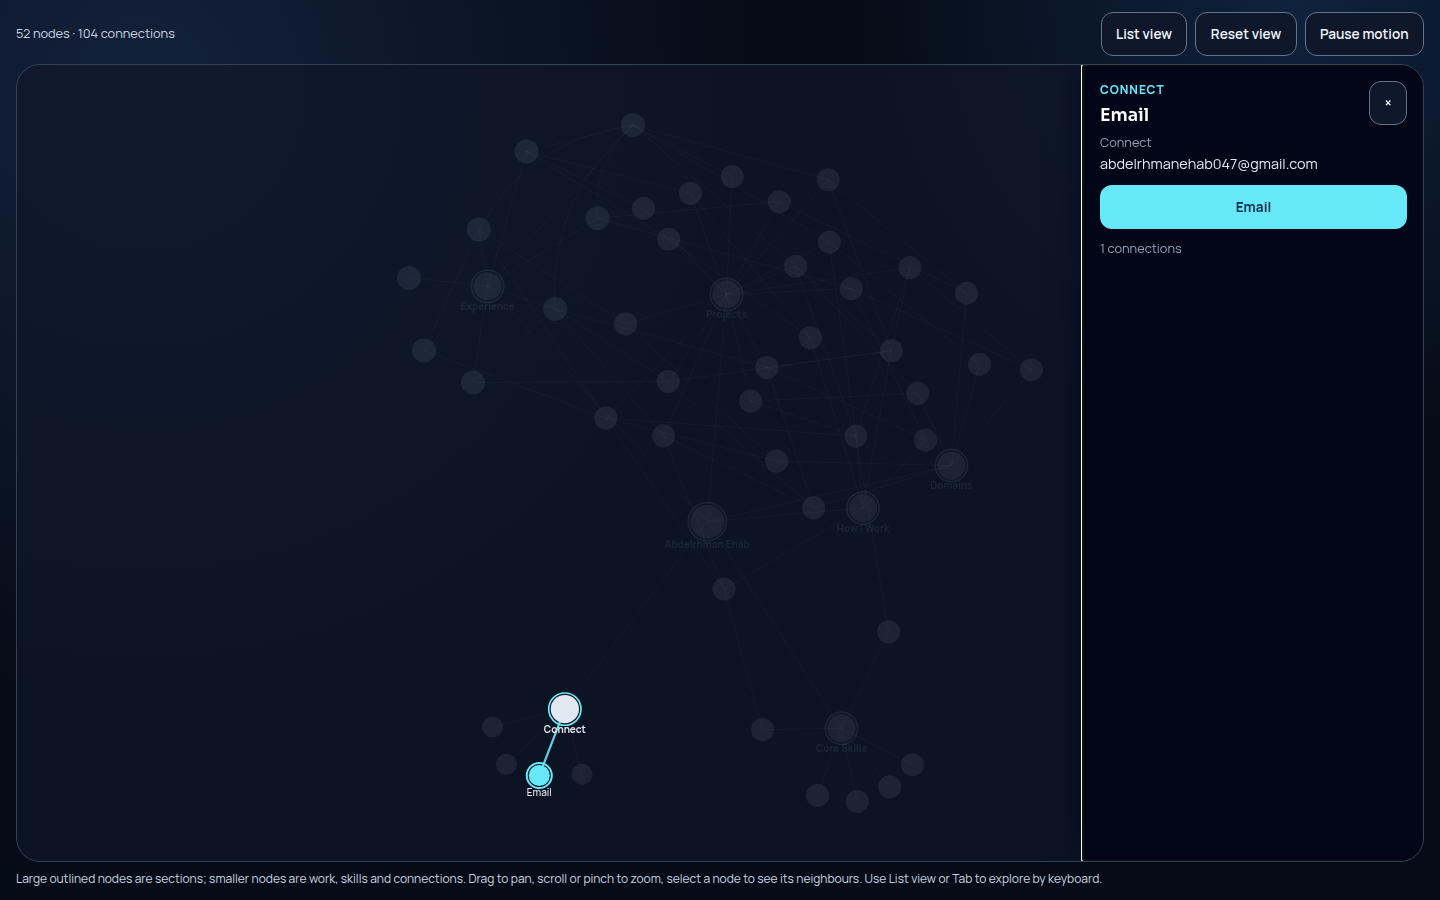
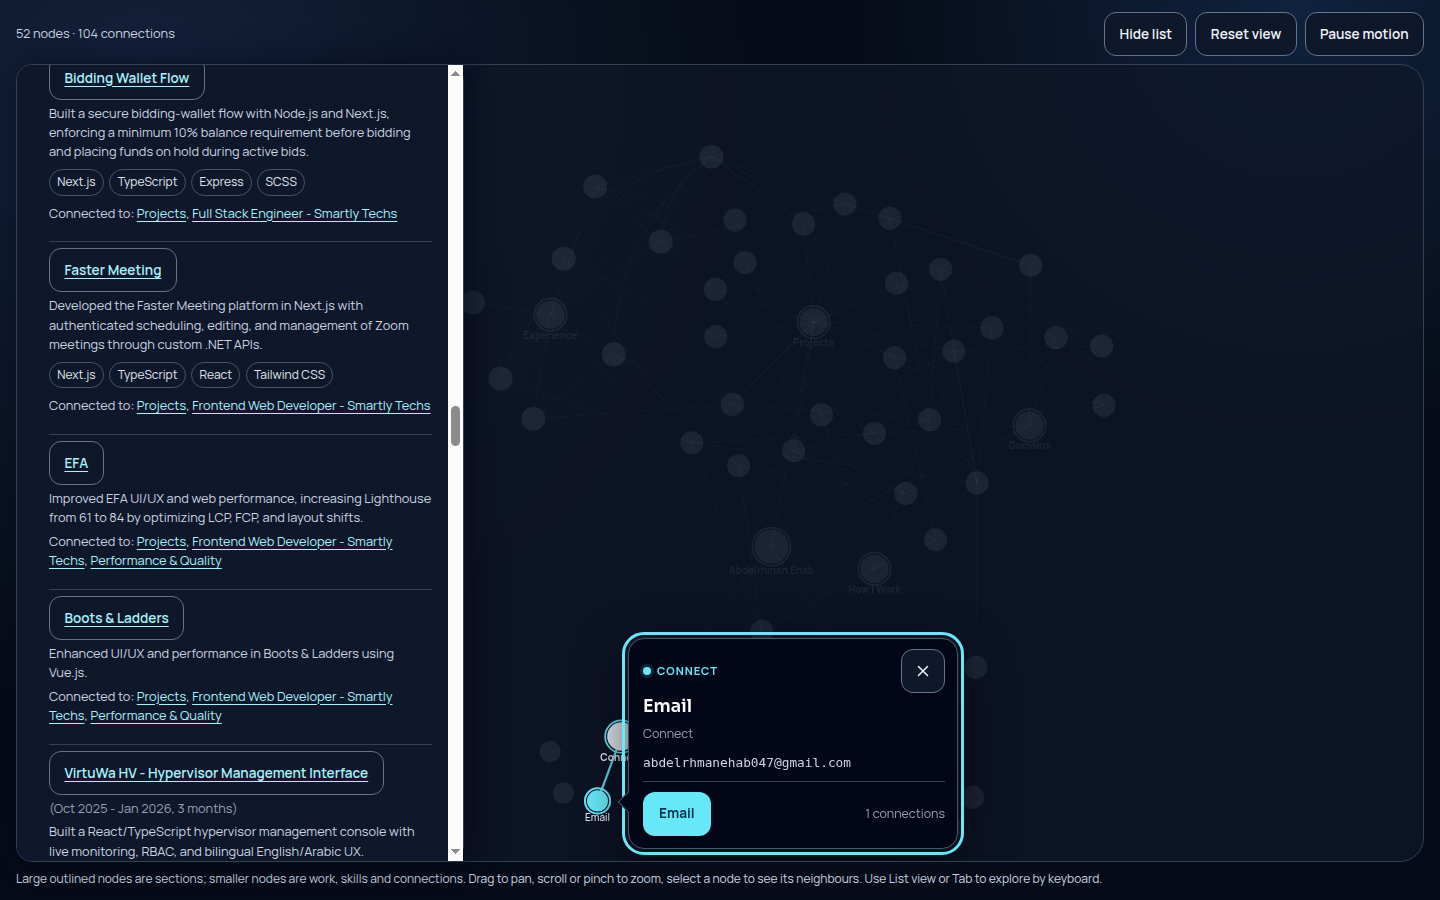
feat: show node details as a callout anchored to the selected node
Replace the right dock / bottom sheet with a floating card pinned beside
the selected node, as picked from the node-panel prototypes (idea 01):

- The card sits to the right of the node, flips left near the edge and
  drops below/above when neither side fits. On phones it sits full-width
  below the node, or above it near the bottom of the stage. It is clamped
  to the stage, and an arrow points at the node; the arrow hides when the
  node is off the stage.
- It is re-placed every rendered frame (onRenderFramePost), so it follows
  its node through simulation ticks, zoom and pan. Positions round to whole
  pixels, and layout is skipped when nothing moved.
- Long nodes are clamped behind Read more / Show less (aria-expanded). The
  footer carries the node's link, or Copy link to #node/<id>, plus the
  connection count.
- Skill summaries no longer repeat their tags, Connect addresses read as a
  muted monospace line, and group labels are singular.
- Dialog semantics, focus on open, Escape/close focus restore, hash sync,
  reduced motion and the static list-index fallback are kept.

Unit and live checks cover placement, following after pan and zoom (the
arrow's target pixel is the selected node's fill), Read more, and the card
staying inside the stage at desktop and 390px. The graph-only verification
doc has fresh desktop and phone screenshots.

diff --git a/src/hero-graph.js b/src/hero-graph.js
@@ -20,6 +20,46 @@ export function nodeLinkHTML(node, className) {
   return `<a class="${className}" href="${escapeHTML(node.href)}"${attributes}>${escapeHTML(node.linkLabel || "Open link")}</a>`;
 }
 
+// The details panel is a callout card: its group label names one node, not the section.
+const groupNames = { root: "Profile", hub: "Section", role: "Experience", project: "Project", skill: "Skill set", domain: "Domain", craft: "Practice", link: "Connect" };
+const facts = (meta) => (meta || "").replace(/^\(|\)$/g, "").split(/\s\|\s|\s·\s|,\s(?=\d+ months)/).map((fact) => fact.trim()).filter(Boolean);
+const clamp = (value, min, max) => Math.max(min, Math.min(max, value));
+const CALLOUT_GAP = 30;
+const CALLOUT_MARGIN = 12;
+
+// Places the callout beside the node (right, else left) when it fits on a wide stage,
+// otherwise below or above it; phones always use the vertical placement. Returns stage
+// pixels, and a null arrow when the node itself is off the stage.
+export function placeCallout({ x, y, width, height, cardWidth, cardHeight, mobile }) {
+  const onStage = x >= 0 && x <= width && y >= 0 && y <= height;
+  const ax = clamp(x, 0, width);
+  const ay = clamp(y, 0, height);
+  if (!mobile) {
+    const right = ax + CALLOUT_GAP + cardWidth <= width - CALLOUT_MARGIN;
+    const left = ax - CALLOUT_GAP - cardWidth >= CALLOUT_MARGIN;
+    if (right || left) {
+      const maxHeight = height - 2 * CALLOUT_MARGIN;
+      const shown = Math.min(cardHeight, maxHeight);
+      const top = clamp(ay - 60, CALLOUT_MARGIN, height - shown - CALLOUT_MARGIN);
+      return {
+        side: right ? "right" : "left", left: Math.round(right ? ax + CALLOUT_GAP : ax - CALLOUT_GAP - cardWidth),
+        top: Math.round(top), maxHeight: Math.round(maxHeight), arrow: onStage ? Math.round(clamp(ay - top, 18, shown - 18)) : null,
+      };
+    }
+  }
+  const below = height - ay - CALLOUT_GAP - CALLOUT_MARGIN;
+  const above = ay - CALLOUT_GAP - CALLOUT_MARGIN;
+  const down = below >= Math.min(cardHeight, 220) || below >= above;
+  const maxHeight = Math.max(down ? below : above, 120);
+  const shown = Math.min(cardHeight, maxHeight);
+  const left = mobile ? CALLOUT_MARGIN : clamp(ax - cardWidth / 2, CALLOUT_MARGIN, width - cardWidth - CALLOUT_MARGIN);
+  const top = clamp(down ? ay + CALLOUT_GAP : ay - CALLOUT_GAP - shown, CALLOUT_MARGIN, height - shown - CALLOUT_MARGIN);
+  return {
+    side: down ? "below" : "above", left: Math.round(left), top: Math.round(top), maxHeight: Math.round(maxHeight),
+    arrow: onStage ? Math.round(clamp(ax - left, 18, cardWidth - 18)) : null,
+  };
+}
+
 export function initHeroGraph() {
   const stage = document.querySelector("#graph-stage");
   if (!stage) return;
@@ -37,6 +77,8 @@ export function initHeroGraph() {
   let hovered = null;
   let selected = null;
   let lastFocus = null;
+  let placed = "";
+  let panelVersion = 0;
   let press = null;
   let moved = false;
   let ticks = 0;
@@ -85,6 +127,32 @@ export function initHeroGraph() {
     return null;
   }
 
+  // Runs every rendered frame, so the card follows its node through ticks, pan and zoom;
+  // the key skips layout work when nothing moved by a whole pixel.
+  function positionPanel() {
+    if (!graph || !selected || panel.hidden || stage.hidden) return;
+    const node = graph.graphData().nodes.find((entry) => entry.id === selected);
+    if (!node || !Number.isFinite(node.x) || !Number.isFinite(node.y)) return;
+    const screen = graph.graph2ScreenCoords(node.x, node.y);
+    const scroll = panel.querySelector(".graph-panel-scroll");
+    const key = [Math.round(screen.x), Math.round(screen.y), stage.clientWidth, stage.clientHeight, mobile.matches, panelVersion].join();
+    if (key === placed) return;
+    placed = key;
+    const spot = placeCallout({
+      x: screen.x, y: screen.y, width: stage.clientWidth, height: stage.clientHeight,
+      cardWidth: panel.offsetWidth || 330, cardHeight: (scroll.scrollHeight || 0) + 2, mobile: mobile.matches,
+    });
+    panel.dataset.side = spot.side;
+    panel.style.left = `${spot.left}px`;
+    panel.style.top = `${spot.top}px`;
+    scroll.style.maxHeight = `${spot.maxHeight}px`;
+    const arrow = panel.querySelector(".graph-panel-arrow");
+    arrow.hidden = spot.arrow === null;
+    const vertical = spot.side === "below" || spot.side === "above";
+    arrow.style.top = vertical || spot.arrow === null ? "" : `${spot.arrow}px`;
+    arrow.style.left = !vertical || spot.arrow === null ? "" : `${spot.arrow}px`;
+  }
+
   function closePanel({ restoreFocus = true } = {}) {
     if (panel.hidden) return;
     panel.hidden = true;
@@ -100,20 +168,51 @@ export function initHeroGraph() {
     lastFocus = origin || document.activeElement;
     hovered = null;
     selected = id;
-    const group = graphGroups[node.group].label;
     const link = nodeLinkHTML(node, "graph-action");
-    const notice = projectNotices[id] ? `<p class="graph-meta">${escapeHTML(projectNotices[id])}</p>` : "";
-    panel.innerHTML = `<div class="graph-panel-heading"><div><p class="graph-group-name">${escapeHTML(group)}</p>
+    const notice = projectNotices[id] ? `<p class="graph-notice">${escapeHTML(projectNotices[id])}</p>` : "";
+    const detail = facts(node.meta);
+    // Skill summaries repeat their tags; a Connect node's address reads as a muted line.
+    const text = node.tags?.length && node.summary === node.tags.join(" · ") ? "" : node.summary || "";
+    const address = node.group === "link" && /^(https?:\/\/\S+|\S+@\S+)$/.test(text);
+    const summary = !text ? "" : `<p class="${address ? "graph-url" : "graph-summary"}">${escapeHTML(text)}</p>`;
+    // The clamp is for the floating card; the list-index fallback shows everything.
+    const long = !stage.hidden && (text.length > 150 || node.bullets?.length > 0 || node.tags?.length > 4);
+    panel.innerHTML = `<span class="graph-panel-arrow" aria-hidden="true"></span><div class="graph-panel-scroll">
+      <div class="graph-panel-heading"><p class="graph-group-name">${escapeHTML(groupNames[node.group] || graphGroups[node.group].label)}</p>
+      <button type="button" id="graph-panel-close" aria-label="Close node details"><svg viewBox="0 0 24 24" aria-hidden="true"><path d="M6 6l12 12M18 6 6 18"/></svg></button></div>
       <h2 id="graph-panel-title">${escapeHTML(node.title)}</h2>
-      ${node.meta ? `<p class="graph-meta">${escapeHTML(node.meta)}</p>` : ""}</div>
-      <button type="button" id="graph-panel-close" aria-label="Close node details">&times;</button></div>
-      <p class="graph-summary">${escapeHTML(node.summary)}</p>${notice}
+      ${detail.length ? `<ul class="graph-facts">${detail.map((fact) => `<li>${escapeHTML(fact)}</li>`).join("")}</ul>` : ""}
+      <div class="graph-body${long ? " is-clamped" : ""}" id="graph-panel-body">${summary}${notice}
       ${node.bullets?.length ? `<ul class="graph-bullets">${node.bullets.map((item) => `<li>${escapeHTML(item)}</li>`).join("")}</ul>` : ""}
-      ${node.tags?.length ? `<div class="graph-tags">${node.tags.map((tag) => `<span>${escapeHTML(tag)}</span>`).join("")}</div>` : ""}
-      ${link}<p class="graph-meta">${adjacency.get(id)?.size || 0} connections</p>`;
+      ${node.tags?.length ? `<div class="graph-tags">${node.tags.map((tag) => `<span>${escapeHTML(tag)}</span>`).join("")}</div>` : ""}</div>
+      ${long ? `<button type="button" id="graph-panel-more" class="graph-more" aria-expanded="false" aria-controls="graph-panel-body">Read more</button>` : ""}
+      <div class="graph-panel-foot">${link || '<button type="button" id="graph-panel-copy" class="graph-copy">Copy link</button>'}
+      <p class="graph-meta">${adjacency.get(id)?.size || 0} connections</p></div></div>`;
     panel.hidden = false;
+    delete panel.dataset.side;
     panel.querySelector("#graph-panel-close").addEventListener("click", () => closePanel());
-    panel.focus();
+    if (long) {
+      const more = panel.querySelector("#graph-panel-more");
+      more.addEventListener("click", () => {
+        const open = more.getAttribute("aria-expanded") !== "true";
+        panel.querySelector("#graph-panel-body").classList.toggle("is-clamped", !open);
+        more.setAttribute("aria-expanded", String(open));
+        more.textContent = open ? "Show less" : "Read more";
+        panelVersion++;
+        positionPanel();
+      });
+    }
+    if (!link) {
+      const copy = panel.querySelector("#graph-panel-copy");
+      copy.addEventListener("click", () => {
+        const done = (text) => { copy.textContent = text; setTimeout(() => { copy.textContent = "Copy link"; }, 1600); };
+        const url = `${location.origin}${location.pathname}#node/${id}`;
+        (navigator.clipboard ? navigator.clipboard.writeText(url) : Promise.reject()).then(() => done("Link copied"), () => done("Copy failed"));
+      });
+    }
+    panelVersion++;
+    positionPanel();
+    panel.focus({ preventScroll: true });
     repaint();
     history.replaceState(null, "", `#node/${id}`);
   }
@@ -230,6 +329,7 @@ export function initHeroGraph() {
       .onBackgroundClick(() => {
         if (motionButton.getAttribute("aria-pressed") !== "true") closePanel();
       })
+      .onRenderFramePost(() => positionPanel())
       .onEngineTick(() => { if (!moved && ++ticks % 12 === 0) fit(0); })
       .onEngineStop(() => { if (!moved) fit(reduced ? 0 : 400); });
 

diff --git a/src/hero-graph.css b/src/hero-graph.css
@@ -43,22 +43,52 @@ html.graph-js #graph-index-wrap.graph-index-hidden:focus-within { position: stat
 #graph-index-wrap .graph-index-connections { font-size: .8rem; }
 #graph-index-wrap .graph-index-connections a, #graph-index-wrap .graph-index-link { color: #a5f3fc; text-decoration: underline; text-underline-offset: 3px; }
 #graph-index-wrap .graph-index-link { display: inline-flex; min-height: 44px; align-items: center; font-size: .85rem; font-weight: 700; }
-#graph-panel { position: absolute; z-index: 20; inset: auto 0 0; max-height: 72%; overflow-y: auto; padding: 1rem; border-top: 1px solid #475569; background: #020617; color: #e2e8f0; box-shadow: 0 -8px 30px #02061799; }
-#graph-index-wrap #graph-panel { position: static; inset: auto; width: auto; max-height: none; margin: 1rem 0; border: 1px solid #475569; border-radius: .75rem; box-shadow: none; }
-#graph-panel h2 { color: #fff; font: 600 1.1rem/1.4 Sora, sans-serif; margin: .25rem 0; }
-.graph-panel-heading { display: flex; justify-content: space-between; align-items: start; gap: 1rem; }
-.graph-group-name { margin: 0; color: #67e8f9; font-size: .75rem; font-weight: 700; letter-spacing: .08em; text-transform: uppercase; }
-.graph-meta { color: #94a3b8; font-size: .8rem; line-height: 1.6; }
+/* The details panel is a callout card pinned to the selected node; hero-graph.js sets its
+   left/top, side and arrow every frame. In the list-index fallback it is a static card. */
+#graph-panel { position: absolute; z-index: 20; left: 12px; top: 12px; width: min(330px, calc(100% - 24px)); border: 1px solid #475569; border-radius: 16px; background: #020617; color: #e2e8f0; box-shadow: 0 18px 50px #000000aa, 0 0 0 1px rgba(103,232,249,.08); animation: graph-panel-in .2s cubic-bezier(.2,.8,.2,1); }
+@keyframes graph-panel-in { from { opacity: 0; transform: scale(.96); } }
+#graph-panel:focus { outline: none; }
+#graph-panel:focus-visible { outline: 3px solid #67e8f9; outline-offset: 3px; }
+.graph-panel-scroll { position: relative; overflow-y: auto; overscroll-behavior: contain; padding: 10px 12px 12px 14px; border-radius: 16px; scrollbar-width: thin; scrollbar-color: #475569 transparent; }
+.graph-panel-arrow { position: absolute; width: 16px; height: 16px; margin: -8px; background: #020617; border: 0 solid #475569; transform: rotate(45deg); }
+#graph-panel:not([data-side]) .graph-panel-arrow, .graph-panel-arrow[hidden] { display: none; }
+#graph-panel[data-side="right"] .graph-panel-arrow { left: 0; border-width: 0 0 1px 1px; }
+#graph-panel[data-side="left"] .graph-panel-arrow { left: 100%; border-width: 1px 1px 0 0; }
+#graph-panel[data-side="below"] .graph-panel-arrow { top: 0; border-width: 1px 0 0 1px; }
+#graph-panel[data-side="above"] .graph-panel-arrow { top: 100%; border-width: 0 1px 1px 0; }
+#graph-index-wrap #graph-panel { position: static; width: auto; margin: 1rem 0; border-radius: .75rem; box-shadow: none; animation: none; }
+#graph-index-wrap #graph-panel .graph-panel-scroll { max-height: none !important; overflow: visible; }
+#graph-index-wrap #graph-panel p { margin: 0; }
+#graph-index-wrap #graph-panel .graph-body > * + * { margin-top: 12px; }
+#graph-index-wrap #graph-panel .graph-copy { color: #f1f5f9; text-align: center; text-decoration: none; }
+#graph-panel h2 { color: #fff; font: 600 1.1rem/1.35 Sora, sans-serif; margin: 0; overflow-wrap: anywhere; }
+.graph-panel-heading { display: flex; justify-content: space-between; align-items: center; gap: 1rem; margin-bottom: 2px; }
+.graph-group-name { display: flex; align-items: center; gap: 6px; margin: 0; color: #67e8f9; font-size: .7rem; font-weight: 700; letter-spacing: .09em; text-transform: uppercase; }
+.graph-group-name::before { content: ""; width: 8px; height: 8px; border-radius: 50%; background: currentColor; box-shadow: 0 0 0 3px rgba(103,232,249,.14); }
+#graph-panel #graph-panel-close { display: inline-grid; place-items: center; width: 44px; padding: 0; }
+#graph-panel-close svg { width: 18px; height: 18px; fill: none; stroke: currentColor; stroke-width: 2; stroke-linecap: round; }
+.graph-facts { display: flex; flex-wrap: wrap; gap: 2px 6px; margin-top: 6px; }
+.graph-facts li { color: #94a3b8; font-size: .78rem; line-height: 1.5; }
+.graph-facts li:not(:last-child)::after { content: "·"; margin-left: 6px; color: #64748b; }
+.graph-meta { color: #94a3b8; font-size: .78rem; line-height: 1.6; }
+.graph-body { margin-top: 10px; }
+.graph-body > * + * { margin-top: 12px; }
+.graph-body.is-clamped { max-height: 7.4em; overflow: hidden; -webkit-mask-image: linear-gradient(#000 55%, transparent); mask-image: linear-gradient(#000 55%, transparent); }
 .graph-summary { font-size: .9rem; line-height: 1.6; }
-.graph-bullets { padding-left: 1.2rem; font-size: .82rem; line-height: 1.6; }
-.graph-bullets li { margin: .35rem 0; }
-.graph-tags { display: flex; flex-wrap: wrap; gap: .4rem; margin: 1rem 0; }
-.graph-tags span { border: 1px solid #475569; border-radius: 1rem; padding: .25rem .5rem; color: #e2e8f0; font-size: .75rem; }
-#graph-panel .graph-action { display: flex; min-height: 44px; align-items: center; justify-content: center; border-radius: .75rem; margin: .6rem 0; font-weight: 700; font-size: .85rem; }
+.graph-url { color: #cbd5e1; font: 500 .8rem/1.5 ui-monospace, SFMono-Regular, Menlo, monospace; overflow-wrap: anywhere; }
+.graph-notice { padding: 8px 10px; border: 1px dashed #475569; border-radius: 10px; color: #cbd5e1; font-size: .78rem; line-height: 1.5; }
+.graph-bullets { display: grid; gap: 8px; font-size: .84rem; line-height: 1.6; }
+.graph-bullets li { position: relative; padding-left: 16px; }
+.graph-bullets li::before { content: ""; position: absolute; left: 2px; top: .6em; width: 6px; height: 6px; border-radius: 2px; background: #67e8f9; opacity: .8; }
+.graph-tags { display: flex; flex-wrap: wrap; gap: .4rem; }
+.graph-tags span { border: 1px solid #475569; border-radius: 1rem; padding: .2rem .55rem; color: #e2e8f0; font-size: .75rem; line-height: 1.45; overflow-wrap: anywhere; }
+#graph-panel .graph-more { display: inline-flex; align-items: center; padding: 0 2px; border: 0; background: none; color: #a5f3fc; font-weight: 700; font-size: .82rem; text-decoration: underline; text-underline-offset: 3px; }
+#graph-panel .graph-more:hover { border: 0; background: none; color: #fff; }
+.graph-panel-foot { display: flex; flex-wrap: wrap; align-items: center; justify-content: space-between; gap: 8px 10px; margin-top: 8px; padding-top: 10px; border-top: 1px solid #334155; }
+#graph-panel .graph-action { display: inline-flex; min-height: 44px; align-items: center; justify-content: center; padding: 0 16px; border-radius: .75rem; font-weight: 700; font-size: .85rem; }
 .graph-action { background: #67e8f9; color: #082f49; }
 .graph-tooltip { font: 600 12px Manrope,sans-serif; color: #f8fafc; background: #020617; border: 1px solid #64748b; border-radius: 8px; padding: 6px 8px; max-width: 240px; }
-/* Beside a visible stage the list docks left, leaving the desktop detail panel (above it) on the right. */
+/* Beside a visible stage the list docks left; the detail callout floats above it beside its node. */
 @media (min-width: 1024px) { html.graph-js #graph-stage:not([hidden]) ~ #graph-index-wrap, html.graph-js #graph-stage:not([hidden]) ~ #graph-index-wrap.graph-index-hidden:focus-within { justify-self: start; width: min(28rem, 100%); box-shadow: 8px 0 30px #02061799; } }
-@media (min-width: 640px) { #graph-panel { inset: 0 0 0 auto; width: min(340px, 70%); max-height: none; border-top: 0; border-left: 1px solid #475569; } }
-@media (max-width: 639px) { #graph-controls .graph-buttons { width: 100%; } #graph-controls button { flex: 1; padding-inline: .4rem; } }
-@media (prefers-reduced-motion: reduce) { #graph-stage *, #graph-controls * { scroll-behavior: auto !important; animation: none !important; transition: none !important; } }
+@media (max-width: 639px) { #graph-panel { width: calc(100% - 24px); } #graph-controls .graph-buttons { width: 100%; } #graph-controls button { flex: 1; padding-inline: .4rem; } }
+@media (prefers-reduced-motion: reduce) { #graph-stage *, #graph-controls *, #graph-panel, #graph-panel * { scroll-behavior: auto !important; animation: none !important; transition: none !important; } }

diff --git a/docs/graph-only/verification.md b/docs/graph-only/verification.md
@@ -7,12 +7,23 @@ The page is now the graph view alone. Checked on the real page served from local
 | Settled default | [desktop](desktop-default.png) | [phone](mobile-default.png) |
 | List view with a project's details | [desktop](desktop-list-detail.png) | [phone list](mobile-list.png) |
 | Connect and role details | [email](desktop-connect-email.png) | [resume](mobile-detail-resume.png), [role](mobile-detail-role.png) |
+| Node details callout | [beside its node](desktop-callout.png), [after zoom and pan](desktop-callout-panned.png) | [profile](mobile-callout-profile.png), [reduced motion](mobile-callout-reduced.png) |
+| Graph library unavailable (list-index fallback) | | [static card in the index](mobile-fallback-detail.png) |
 
 - **Fills the page:** `main` is exactly the viewport, and document scroll size equals the viewport at both widths (1440 × 900 and 390 × 844). This holds with List view open, and with a detail panel open, because the list scrolls inside the stage area. No header, navigation, hero, `section` or footer remains; the accessible `h1`, title, description, the root node and its label identify Abdelrhman Ehab.
 - **Connect:** the Email node opens `mailto:abdelrhmanehab047@gmail.com`; the LinkedIn and GitHub nodes open the profile URLs in a new tab; the Resume (PDF) action has `download`. Clicking it in Chrome downloaded a file byte-identical to `assets/abdelrhmanehab_resume.pdf`. The same links are rendered in the List view index, so they also work without JavaScript.
 - **Keyboard:** starting from the top of the page, 300 Tab presses reached all 52 index node buttons and all 6 node links (4 Connect, 2 project sites) without scrolling the page. Enter opens a node, and Escape returns focus to it (see `scripts/test-hero-live.mjs`).
+- **Node details callout:** selecting a node opens `#graph-panel` as a card pinned beside that node, with an arrow pointing at it.
+  - **Desktop:** the card sits to the right of the node, flips to the left near the right edge, and drops below or above the node when neither side fits. It stays clamped inside the stage.
+  - **Phone:** the card sits full-width below the node, or above it near the bottom of the stage.
+  - **Following the node:** it is re-placed on every rendered frame (`onRenderFramePost`), so it tracks the node through simulation ticks, zoom and pan. The live test samples the arrow's target pixel on the canvas and finds the selected node's cyan fill there (49 of 49 pixels) after load, after a wheel zoom and after a drag pan. Over 40 frames with motion on, the card moved at most 1px per frame (no jitter).
+  - **Off-stage node:** the arrow hides while the card stays on the stage.
+  - **Read more:** long nodes are clamped, and Read more / Show less toggles `aria-expanded`.
+  - **Content fixes:** skill nodes no longer repeat their tags as a summary, Connect addresses read as a muted monospace line, and group labels are singular. Nodes without an external link offer Copy link to their `#node/<id>` URL.
+  - **Kept behaviour:** dialog semantics, focus on open, Escape and close restoring focus, hash sync and the list-index fallback (a static card with no clamp) are unchanged. With reduced motion the card does not animate.
+  - **Keyboard only:** List view → Enter on a node → Tab reaches Close, Read more and Copy link → Escape returns focus to the list entry.
 - **Content:** experience, projects, skills, domains and practices are fully reachable through node details. Client-owned VirtuWa HV and QR verification keep their source notices in the detail panel and in the index.
 - **Console:** no messages on desktop or phone loads. An inline favicon replaces the previous `/favicon.ico` 404.
 - **Sharing:** Open Graph/Twitter now use [`assets/images/og-graph.png`](../../assets/images/og-graph.png), a 1200 × 630 capture of this page, in place of a client storefront screenshot.
 
-`HERO_GRAPH_EVIDENCE_DIR=<dir> node scripts/test-hero-live.mjs` (headless `google-chrome`) also passed. It covers the desktop and phone paths, paused and reduced-motion picking, deep links, vendor-script failure, and JavaScript disabled (complete index, no blank stage).
+`HERO_GRAPH_EVIDENCE_DIR=<dir> node scripts/test-hero-live.mjs` (headless `google-chrome`) also passed. It covers the desktop and phone paths, the callout placement after zoom and pan, paused and reduced-motion picking, deep links, vendor-script failure, and JavaScript disabled (complete index, no blank stage).
